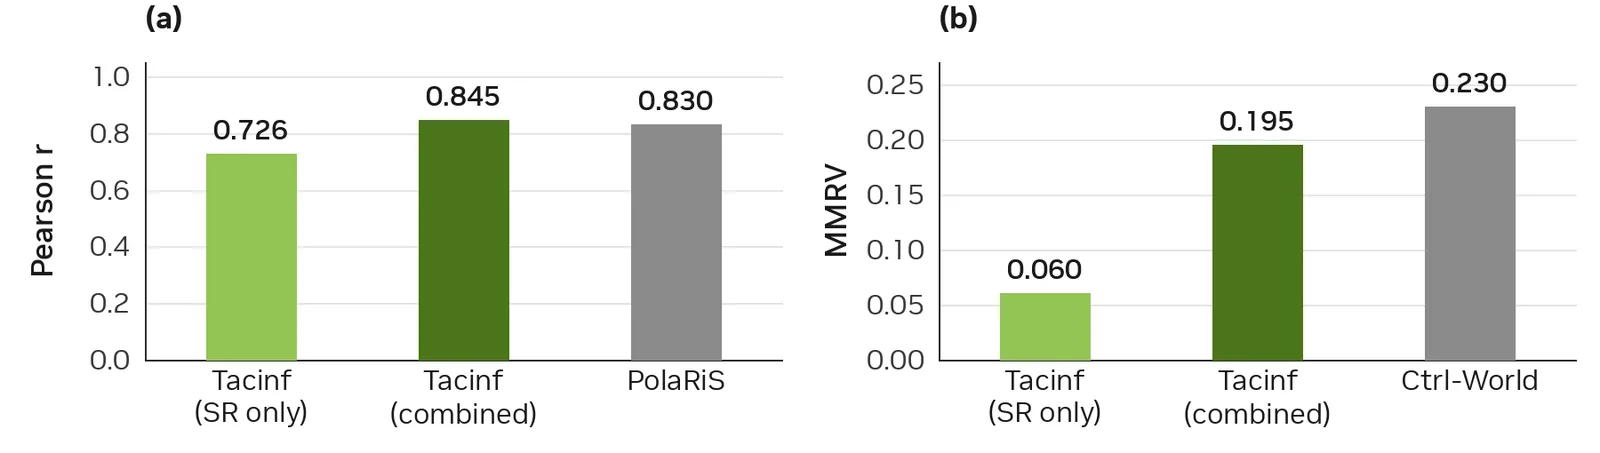
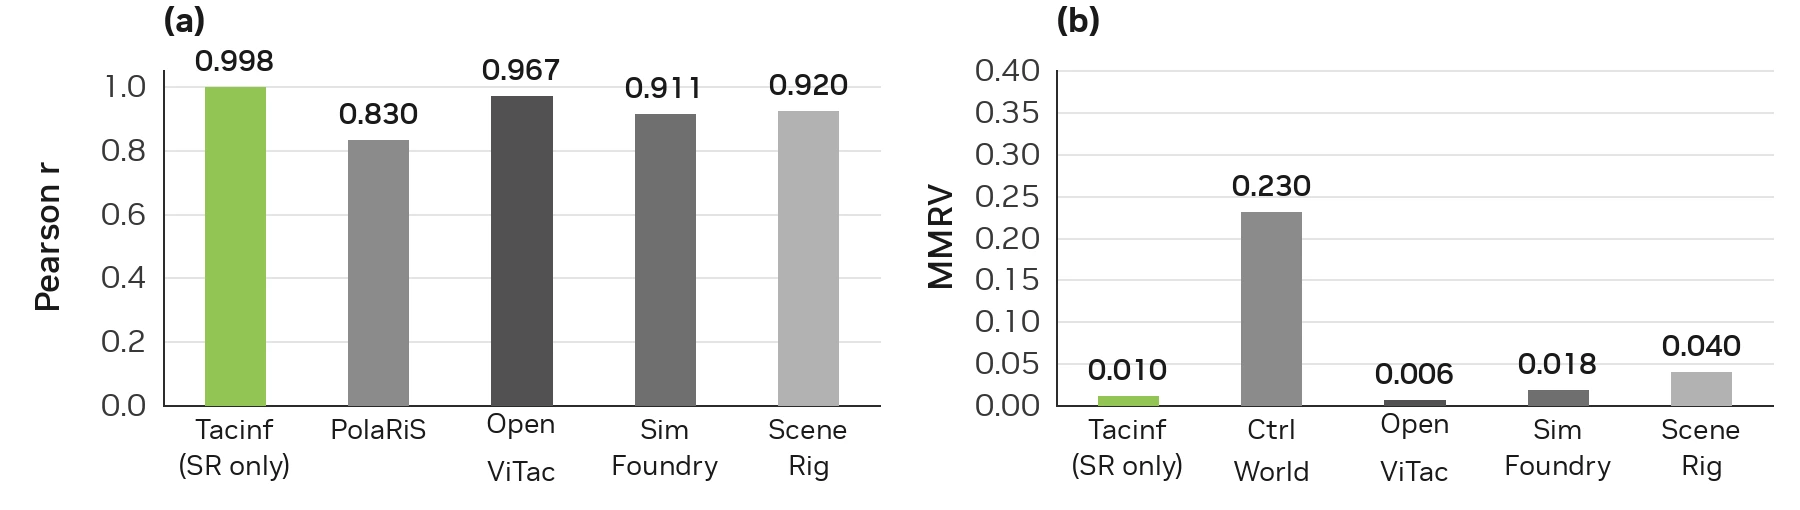
Sync project page with updated paper

diff --git a/index.html b/index.html
@@ -4,8 +4,8 @@
   <meta charset="utf-8">
   <meta name="viewport" content="width=device-width, initial-scale=1">
   <title>Tacinf — A Unified Tactile Infrastructure for Robot Manipulation</title>
-  <meta name="description" content="Tacinf is a unified tactile infrastructure for robot manipulation: tactile simulation and benchmarks, force-aware VLA policies, handheld data collection, and task-aligned sim-to-real evaluation in one loop.">
-  <meta name="author" content="Qiwei Wu, Xiangyu Chen, Xin Xiang, Rui Zhang, Yihang Kang, Weiran Chen, Zikang Xie, Tao Wang, Xiangzheng Wang, Tianyi Bi, Zhiyan Zhang, Xianpeng Wang, Mingqian Zhou, Yangfan Li, Tao Li, Weihua Zhang, Renjing Xu, Junjie Lai">
+  <meta name="description" content="Tacinf is a low-cost, modular tactile infrastructure for force-aware manipulation, combining tactile simulation, policy learning, handheld data collection, and task-aligned sim-to-real evaluation.">
+  <meta name="author" content="Qiwei Wu, Xiangyu Chen, Xin Xiang, Rui Zhang, Yihang Kang, Weiran Chen, Zikang Xie, Xiangzheng Wang, Tianyi Bi, Zhiyan Zhang, Xianpeng Wang, Mingqian Zhou, Yangfan Li, Tao Wang, Tao Li, Weihua Zhang, Renjing Xu, Junjie Lai">
   <meta name="theme-color" content="#050705">
   <link rel="canonical" href="https://tacinf.github.io/">
   <link rel="icon" href="favicon.svg?v=20261107r5" type="image/svg+xml" sizes="any">
@@ -17,14 +17,14 @@
 
   <meta property="og:type" content="article">
   <meta property="og:title" content="Tacinf — A Unified Tactile Infrastructure for Robot Manipulation">
-  <meta property="og:description" content="Four modules, one tactile loop: Tabero simulation, Tacinf-VTLA policies, Tacumi handheld collection, Taco sim-to-real.">
+  <meta property="og:description" content="Four modules for tactile manipulation: Tabero simulation, Tacinf-VTLA policies, Tacumi data collection, and Taco sim-to-real evaluation and co-training.">
   <meta property="og:url" content="https://tacinf.github.io/">
   <meta property="og:image" content="https://tacinf.github.io/assets/img/og.jpg">
   <meta property="og:image:width" content="1200">
   <meta property="og:image:height" content="630">
   <meta name="twitter:card" content="summary_large_image">
   <meta name="twitter:title" content="Tacinf — A Unified Tactile Infrastructure for Robot Manipulation">
-  <meta name="twitter:description" content="Four modules, one tactile loop: Tabero simulation, Tacinf-VTLA policies, Tacumi handheld collection, Taco sim-to-real.">
+  <meta name="twitter:description" content="Four modules for tactile manipulation: Tabero simulation, Tacinf-VTLA policies, Tacumi data collection, and Taco sim-to-real evaluation and co-training.">
   <meta name="twitter:image" content="https://tacinf.github.io/assets/img/og.jpg">
 
   <link rel="preload" href="assets/fonts/space-mono-400-normal.woff2" as="font" type="font/woff2" crossorigin>
@@ -39,7 +39,7 @@
     "@context": "https://schema.org",
     "@type": "ScholarlyArticle",
     "headline": "Tacinf: A Unified Tactile Infrastructure for Robot Manipulation",
-    "abstract": "Contact-rich manipulation requires a robot to infer appropriate interaction forces from task context and tactile feedback. Tacinf is a modular tactile vision-language-action infrastructure that integrates synchronized trajectory replay and tactile simulation, policy learning, handheld collection with a shared deployment gripper, and task-aligned simulation-to-real evaluation.",
+    "abstract": "Force-aware manipulation requires a robot to infer appropriate interaction forces from task context and tactile feedback. Tacinf is a low-cost modular infrastructure that predicts actions and fingertip forces from language, vision, and touch, with an optional language-conditioned force level for explicit force regulation. It combines simulation data synthesis and a tactile benchmark (Tabero), policy learning (VTLA), handheld data collection with a shared deployment gripper (Tacumi), and task-aligned simulation-to-real evaluation (Taco). Across eight policy variants, simulation preserves real-robot success ordering (Pearson r=0.998, MMRV=0.010). Mixed teleoperation, simulation, and Tacumi training raises success from 20% to 60% on position-randomized out-of-distribution objects.",
     "author": [
       {"@type": "Person", "name": "Qiwei Wu"},
       {"@type": "Person", "name": "Xiangyu Chen"},
@@ -48,13 +48,13 @@
       {"@type": "Person", "name": "Yihang Kang"},
       {"@type": "Person", "name": "Weiran Chen"},
       {"@type": "Person", "name": "Zikang Xie"},
-      {"@type": "Person", "name": "Tao Wang"},
       {"@type": "Person", "name": "Xiangzheng Wang"},
       {"@type": "Person", "name": "Tianyi Bi"},
       {"@type": "Person", "name": "Zhiyan Zhang"},
       {"@type": "Person", "name": "Xianpeng Wang"},
       {"@type": "Person", "name": "Mingqian Zhou"},
       {"@type": "Person", "name": "Yangfan Li"},
+      {"@type": "Person", "name": "Tao Wang"},
       {"@type": "Person", "name": "Tao Li"},
       {"@type": "Person", "name": "Weihua Zhang"},
       {"@type": "Person", "name": "Renjing Xu"},
@@ -101,7 +101,7 @@
 
           <p class="hero-sub">Making tactile foundation models and devices for everyone.</p>
 
-          <p class="hero-desc">An open-source, low-cost tactile UMI and force-controlled gripper, with a matching simulation environment, extensible tasks and data, a sim-to-real pipeline, model weights, and LEGO-style VTLA plugins.</p>
+          <p class="hero-desc">A low-cost, modular tactile infrastructure: policies predict actions and fingertip forces from language, vision, and touch. An optional language-conditioned force level supports explicit force regulation, while ordinary task instructions need no force adverbs.</p>
 
           <div class="hero-actions">
             <a class="btn btn-solid" href="#modules">Explore the modules <span aria-hidden="true">↓</span></a>
@@ -118,13 +118,13 @@
 
           <div class="hero-authors">
             <p class="authors">
-              <span>Qiwei Wu<sup>1,2,*,‡</sup></span><span>Xiangyu Chen<sup>2,*</sup></span><span>Xin Xiang<sup>2,*</sup></span><span>Rui Zhang<sup>1</sup></span><span>Yihang Kang<sup>2</sup></span><span>Weiran Chen<sup>2</sup></span><span>Zikang Xie<sup>2</sup></span><span>Tao Wang<sup>2</sup></span><span>Xiangzheng Wang<sup>2</sup></span><span>Tianyi Bi<sup>2</sup></span><span>Zhiyan Zhang<sup>2</sup></span><span>Xianpeng Wang<sup>2</sup></span><span>Mingqian Zhou<sup>3</sup></span><span>Yangfan Li<sup>2</sup></span><span>Tao Li<sup>1</sup></span><span>Weihua Zhang<sup>1</sup></span><span>Renjing Xu<sup>2,†</sup></span><span>Junjie Lai<sup>1,†</sup></span>
+              <span>Qiwei Wu<sup>1,2,*,‡</sup></span><span>Xiangyu Chen<sup>2,*</sup></span><span>Xin Xiang<sup>2,*</sup></span><span>Rui Zhang<sup>1</sup></span><span>Yihang Kang<sup>2</sup></span><span>Weiran Chen<sup>2</sup></span><span>Zikang Xie<sup>2</sup></span><span>Xiangzheng Wang<sup>2</sup></span><span>Tianyi Bi<sup>2</sup></span><span>Zhiyan Zhang<sup>2</sup></span><span>Xianpeng Wang<sup>2</sup></span><span>Mingqian Zhou<sup>3</sup></span><span>Yangfan Li<sup>2</sup></span><span>Tao Wang<sup>2</sup></span><span>Tao Li<sup>1</sup></span><span>Weihua Zhang<sup>1,†</sup></span><span>Renjing Xu<sup>2,†</sup></span><span>Junjie Lai<sup>1</sup></span>
             </p>
             <p class="affiliations">
               <span><sup>1</sup>NVIDIA</span>
               <span><sup>2</sup>HKUST (GZ)</span>
               <span><sup>3</sup>University of Cambridge</span>
-              <span class="author-notes"><sup>*</sup>Equal contribution · <sup>‡</sup>Project leader · <sup>†</sup>Corresponding</span>
+              <span class="author-notes"><sup>*</sup>Equal contribution · <sup>‡</sup>Project leader · <sup>†</sup>Corresponding authors</span>
             </p>
           </div>
       </div>
@@ -138,7 +138,7 @@
           <p class="kicker"><span class="kicker-mark" aria-hidden="true"></span>The system</p>
           <h2>One loop.<br><em>Four</em> modules.</h2>
         </div>
-        <p class="section-note">Each module owns one part of the tactile loop. Switch between them — collection, simulation, policy, and transfer.</p>
+        <p class="section-note">Together, the modules support tactile data synthesis and collection, force-aware policy learning, and task-aligned sim-to-real evaluation.</p>
         <p class="compute-note"><span class="compute-mark" aria-hidden="true"></span>Minimum compute for all modules: <strong>one RTX 4090 workstation.</strong></p>
       </div>
 
@@ -475,7 +475,7 @@
 
           <div class="panel-grid">
             <div class="panel-copy">
-              <p>Taco aligns the workspace, objects, embodiment, cameras, and tactile response to the task — then mixes real teleoperation, simulation replay, and UMI demonstrations into one post-training set. The test is policy-relevant consistency: contact onset, patch persistence, force scale, marker response, action replay.</p>
+              <p>Taco aligns the workspace, objects, robot, cameras, and tactile response for paired simulation and real-robot evaluation. It also combines teleoperation, simulation, and Tacumi data for policy post-training: simulation adds object variation, Tacumi adds spatial variation, and teleoperation anchors precise examples.</p>
 
               <div class="resource-grid">
                 <div class="resource-card resource-card--soon">
@@ -505,10 +505,10 @@
               </div>
 
               <div class="panel-stats panel-stats--four">
-                <div class="stat"><strong>0.845</strong><span>Pearson <em>r</em><br>combined score</span></div>
-                <div class="stat"><strong>0.195</strong><span>MMRV<br>combined score</span></div>
-                <div class="stat"><strong>96.7%</strong><span>zero-shot<br>mean success</span></div>
-                <div class="stat"><strong>2k+</strong><span>real-robot<br>evaluations</span></div>
+                <div class="stat"><strong>0.998</strong><span>Pearson <em>r</em><br>success ordering</span></div>
+                <div class="stat"><strong>0.010</strong><span>MMRV<br>success ordering</span></div>
+                <div class="stat"><strong>20 → 60%</strong><span>success on position + OOD objects<br>three-source co-training</span></div>
+                <div class="stat"><strong>98%+</strong><span>real-robot success<br>LIBERO-like · sim-only tuning</span></div>
               </div>
 
               <p class="panel-links">
@@ -519,10 +519,10 @@
 
             <div class="panel-media">
               <figure class="media media--paper">
-                <button class="zoom" type="button" data-full="assets/img/taco-loop.webp" data-caption="Three data sources — teleoperation, simulation replay, and Tacumi demonstrations — feeding joint policy training.">
+                <button class="zoom" type="button" data-full="assets/img/taco-loop.webp" data-caption="Data synergy: teleoperation anchors precise examples, simulation varies objects, and Tacumi varies object positions and grasp approaches.">
                   <img src="assets/img/taco-loop.webp" width="1559" height="535" loading="eager" alt="Three data sources feeding one tactile policy: real teleoperation, simulation replay, and Tacumi demonstrations.">
                 </button>
-                <figcaption><strong>Three sources, one policy.</strong> Teleoperation anchors; simulation scales; Tacumi adds spatial variation.</figcaption>
+                <figcaption><strong>Three sources, one policy.</strong> Teleoperation anchors precision; simulation varies objects; Tacumi adds spatial and approach variation.</figcaption>
               </figure>
 
             </div>
@@ -530,16 +530,16 @@
 
           <div class="evidence-grid">
             <figure class="media media--paper">
-              <button class="zoom" type="button" data-full="assets/img/agreement.webp" data-caption="Cross-domain agreement of simulated evaluations: Pearson r and MMRV for the combined task-and-force score, compared with success-only and literature values.">
-                <img src="assets/img/agreement.webp" width="1600" height="453" loading="lazy" alt="Bar charts: Pearson correlation 0.845 and MMRV 0.195 for the combined score.">
+              <button class="zoom" type="button" data-full="assets/img/agreement.webp?v=20261107r1" data-caption="Cross-domain agreement of simulated and real-robot success scores across eight policy variants, with contextual results from other sim-to-real studies.">
+                <img src="assets/img/agreement.webp?v=20261107r1" width="1800" height="510" loading="lazy" alt="Cross-domain evaluation figure: Tacinf success-only Pearson correlation 0.998 and MMRV 0.010, compared with contextual sim-to-real results from prior work.">
               </button>
-              <figcaption><strong>Simulation preserves policy ordering.</strong> Eight policy variants, combined task-and-force score.</figcaption>
+              <figcaption><strong>Simulation preserves success ordering.</strong> Eight policy variants; literature results are contextual and use different protocols.</figcaption>
             </figure>
             <div class="evidence-copy">
               <p class="panel-kicker">Evidence / paired evaluation</p>
-              <h4>r = 0.845 is the harder claim.</h4>
-              <p>Across eight policy variants spanning two VLA backbones and several tactile configurations, the combined task-and-force score gives <strong>r = 0.845</strong> and <strong>MMRV = 0.195</strong>. Success rate alone gives r = 0.726 and MMRV = 0.060, so simulation preserves both task competence and force-level ordering.</p>
-              <p>The alignment checks CLIP above 0.75, tactile SSIM above 0.93, and action MAE below 0.074 on the channels the policy actually consumes.</p>
+              <h4>Simulation predicts success ordering.</h4>
+              <p>Across eight policy variants and six tasks, simulated success scores track real-robot scores with <strong>Pearson r = 0.998</strong> and <strong>MMRV = 0.010</strong>. The paper reports this success-only comparison; measured force retains a small sim-to-real gap.</p>
+              <p>The replay data also align across visual, tactile, and action channels: CLIP similarity above 0.75, tactile SSIM above 0.93, and action MAE below 0.074. The comparison bars from other studies are contextual because their task suites and scoring protocols differ.</p>
             </div>
           </div>
         </article>
@@ -580,9 +580,9 @@
                   for Robot Manipulation},
   author       = {Wu, Qiwei and Chen, Xiangyu and Xiang, Xin
                   and Zhang, Rui and Kang, Yihang and Chen, Weiran
-                  and Xie, Zikang and Wang, Tao and Wang, Xiangzheng
-                  and Bi, Tianyi and Zhang, Zhiyan and Wang, Xianpeng
-                  and Zhou, Mingqian and Li, Yangfan and Li, Tao
+                  and Xie, Zikang and Wang, Xiangzheng and Bi, Tianyi
+                  and Zhang, Zhiyan and Wang, Xianpeng and Zhou, Mingqian
+                  and Li, Yangfan and Wang, Tao and Li, Tao
                   and Zhang, Weihua and Xu, Renjing and Lai, Junjie},
   year         = {2026},
   note         = {Technical report},
